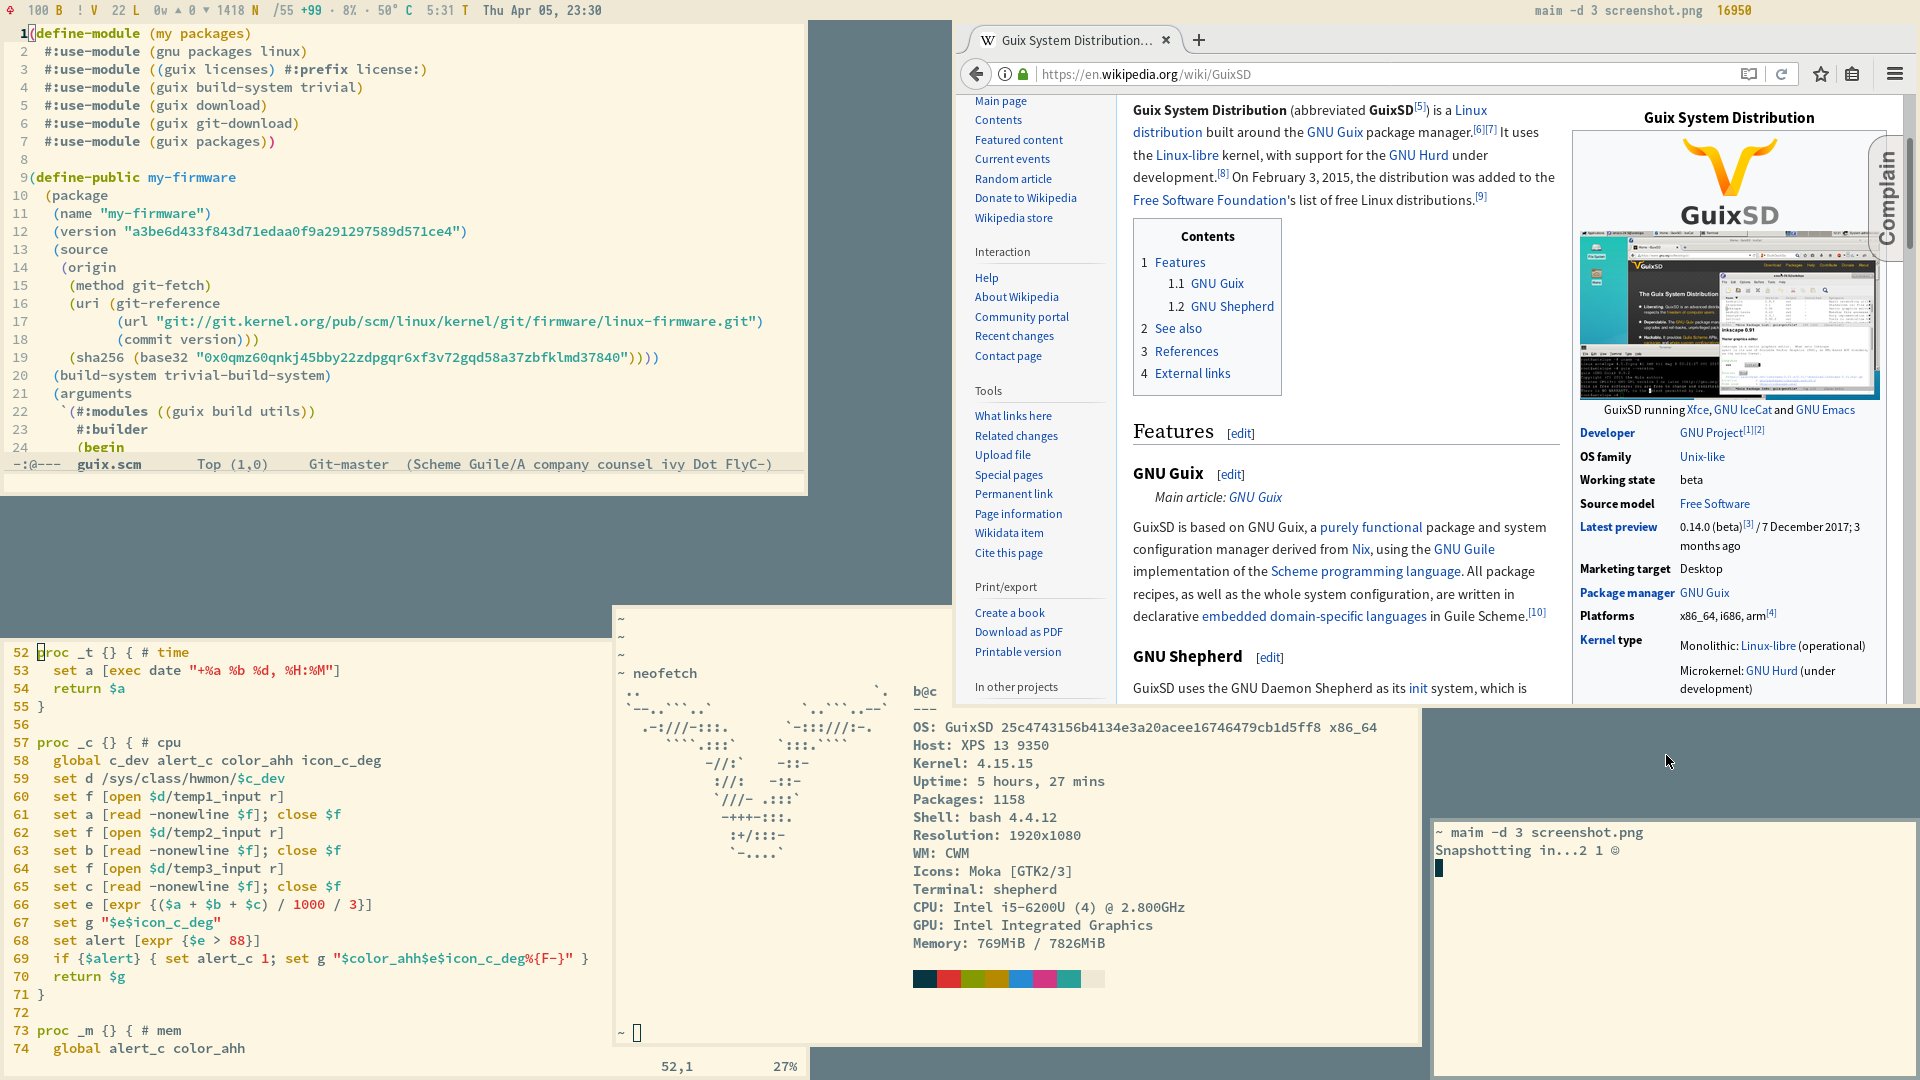
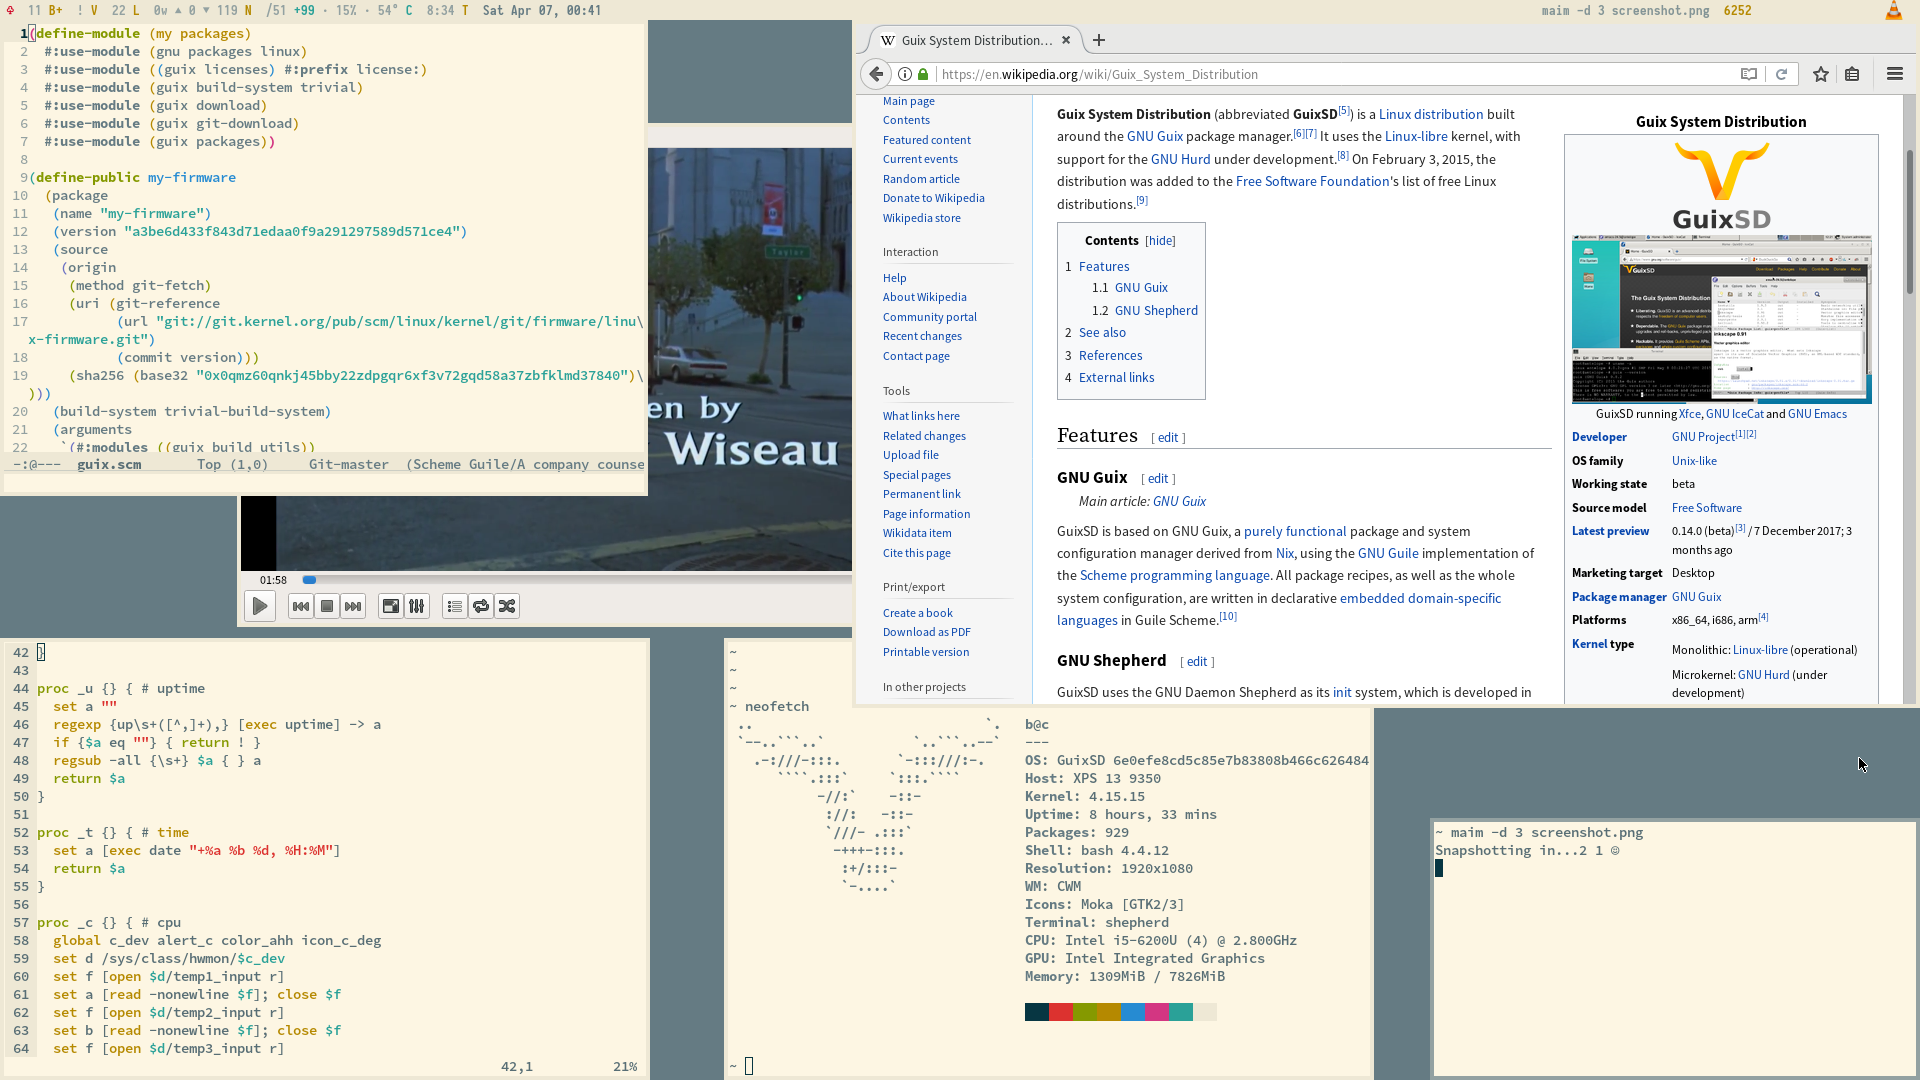
update

diff --git a/README.md b/README.md
@@ -6,13 +6,7 @@ agaric's configuration files for desktop usage.
 
 ![dotfiles-screenshot](/screenshot.png)
 
-featured in image (counter-clockwise from northwest):
-
-- lemonbar
-- emacs
-- vim
-- st (*2)
-- icecat
+featured in image (counter-clockwise from northwest): lemonbar, emacs, vlc, vim, st (*2), icecat, stalonetray
 
 ### major dependencies
 
@@ -27,3 +21,7 @@ featured in image (counter-clockwise from northwest):
 - bar: [lemonbar](https://github.com/LemonBoy/bar) (+ acpi, xdotool, iwgetid)
 - notification: [dunst](https://github.com/dunst-project/dunst)
 - browser: [icecat](https://www.gnu.org/software/gnuzilla/)
+
+### shell scripts
+
+see [scripts](https://github.com/agarick/scripts) for accompanying shell scripts.
